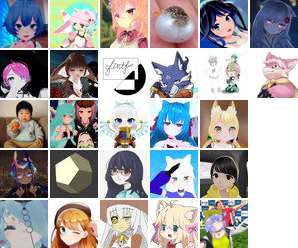
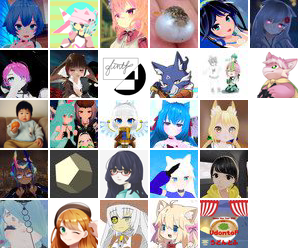
fix: booth cover without poster

Changed region(s): [[0.6644, 0.7903, 0.8456, 1.0]]

diff --git a/src/component/BoothDetail.tsx b/src/component/BoothDetail.tsx
@@ -11,6 +11,7 @@ type Props = {
     boothNo: string;
     boothURL: string;
     hasPoster: boolean;
+    hasCover: boolean;
     hasMenu: boolean;
   };
   index: string;
@@ -24,6 +25,7 @@ const BoothDetail = ({ data = {}, index, version, iconClass, zoom, setZoom }: Pr
   const getImgUrl = (type: string) => {
     if (version === 2 && type === 'poster') return `${process.env.REACT_APP_FIREBASE_STORAGE_URL}v2%2Fposter%2F${data.twitterId}-poster.png?alt=media`;
     if (version === 2 && type === 'menu') return `${process.env.REACT_APP_FIREBASE_STORAGE_URL}v2%2Fmenu%2F${data.twitterId}-menu.png?alt=media`;
+    if (version === 2 && type === 'cover') return `${process.env.REACT_APP_FIREBASE_STORAGE_URL}v2%2Fcover%2F${data.twitterId}-cover.png?alt=media`;
     return `/img/booth-detail/${data.twitterId}-${type}.jpg`;
   }
   return (
@@ -40,7 +42,7 @@ const BoothDetail = ({ data = {}, index, version, iconClass, zoom, setZoom }: Pr
           </a>
         </UserInfoArea>
         <BoothImageArea zoom={zoom} onClick={() => setZoom && setZoom(!zoom)}>
-          <img src={!data.hasPoster ? '/null-poster.png' : getImgUrl('poster')} alt="poster" />
+          <img src={!data.hasPoster ? (!data.hasCover ? '/null-poster.png' : getImgUrl('cover')) : getImgUrl('poster')} alt="poster" />
           <img src={!data.hasMenu ? '/null-menu.png' : getImgUrl('menu')} alt="menu" />
         </BoothImageArea>
         <ShopLinkButton href={data.boothURL} disabled={!data.boothURL} alt="頒布場所" target="_blank" rel="noopener noreferrer">

diff --git a/src/container/V2Catalog.tsx b/src/container/V2Catalog.tsx
@@ -8,10 +8,22 @@ import UserIcon from '../component/UserIcon';
 import '../css/v2-icons.css';
 
 const V2Catalog = React.memo(() => {
-  const [list, setList] = React.useState(['']);
+  const [list, setList] = React.useState([{
+    'boothNo': "OFFICIAL",
+    'twitterId': "mmnk_vt",
+    'displayName': "みみんく",
+    'boothURL': "https://mmnk-vt.booth.pm/",
+    'hasCover': true,
+    'hasMenu': true,
+    'hasPoster': true,
+    'place': 0,
+    'MenuSubmittedAt': "2021/1/9 16:50:39",
+    'PDFSubmittedAt': "2021/1/9 16:45:36",
+    'PosterSubmittedAt': "2021/1/9 16:46:26",
+  }]);
   const [rotate, setRotate] = React.useState(0);
   const [height] = React.useState(40);
-  const [selected, setSelect] = React.useState(0);
+  const [selected, setSelect] = React.useState("mmnk_vt");
   const [genre, setGenre] = React.useState([]);
   const [zoom, setZoom] = React.useState(false);
   React.useEffect(() => {

diff --git a/src/config.js b/src/config.js
@@ -77,6 +77,7 @@ export const getUserList = async (successCallback) => {
       .map(data => ({
         ...data,
         hasPoster: !!data.PosterSubmittedAt,
+        hasCover: !!data.PDFSubmittedAt,
         hasMenu: !!data.MenuSubmittedAt,
       }))
       .sort((a, b) => a.place - b.place);

diff --git a/src/css/v2-icons.css b/src/css/v2-icons.css
@@ -155,7 +155,7 @@ Icon classes can be used entirely standalone. They are named after their origina
   width: 48px;
   height: 48px;
 }
-.i-torgtaitai3 {
+.i-torgtaitai {
   background-image: url(/img/icons-v2.png);
   background-position: -200px -200px;
   width: 48px;
